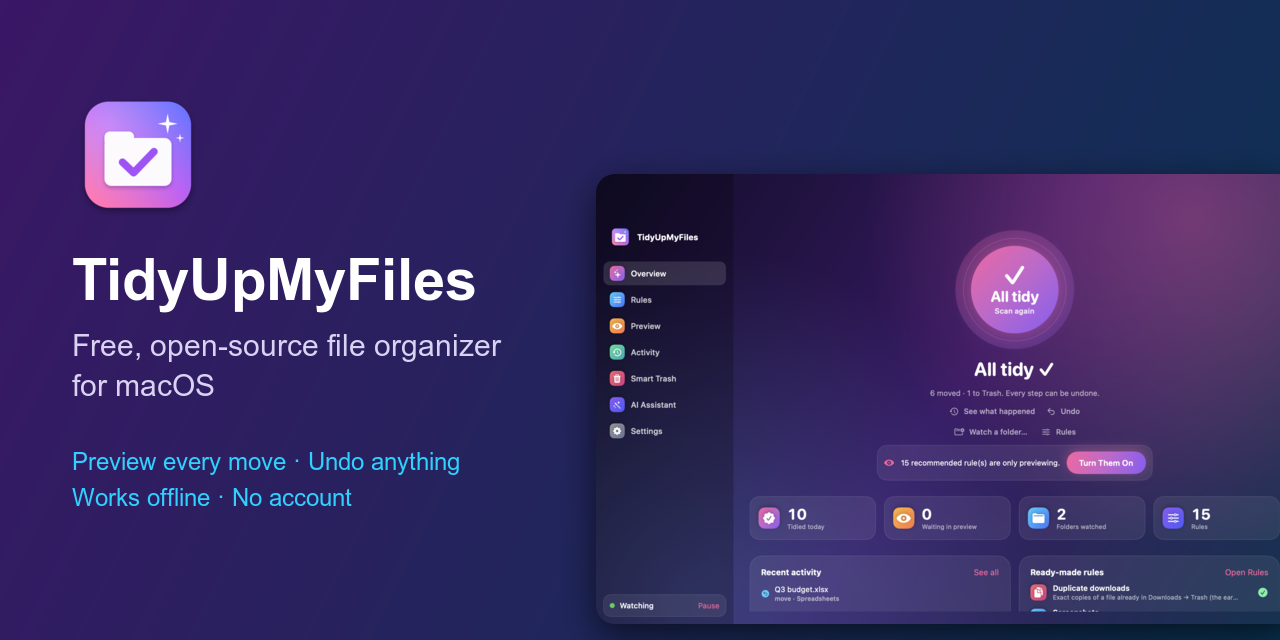
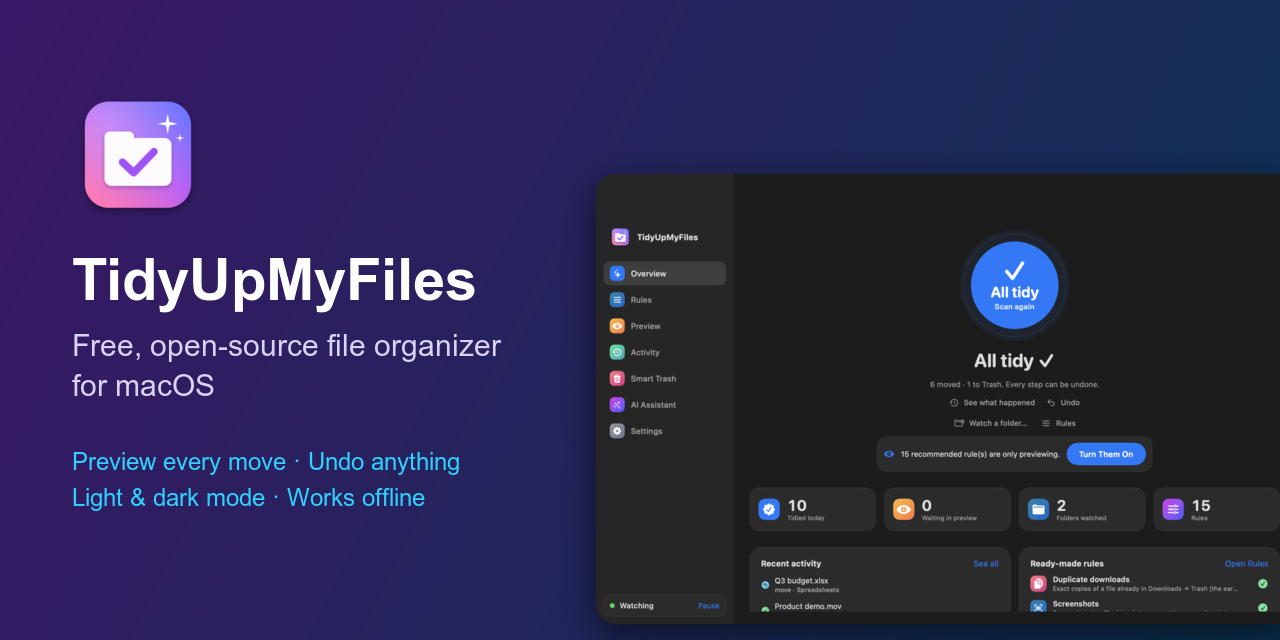
docs: refresh the tour animation, social preview and user guide for the new look

diff --git a/docs/USER-GUIDE.md b/docs/USER-GUIDE.md
@@ -98,18 +98,18 @@ The pictures come from a demo setup with sample files, so they show made-up name
 ![Every step — plus a log file](../.github/assets/07-activity-steps.jpg)
 
 ```
-2026-11-25 08:45:21  DONE     MOVE         ~/Desktop/Screenshot 2026-11-20 at 09.15.02.png → ~/Pictures/Screenshots/2026-11/Screenshot 2026-11-20 at 09.15.02.png  · Screenshots · run 1 (cli)
-2026-11-25 08:45:21  DONE     MOVE         ~/Desktop/Screenshot 2026-11-21 at 14.02.44.png → ~/Pictures/Screenshots/2026-11/Screenshot 2026-11-21 at 14.02.44.png  · Screenshots · run 1 (cli)
-2026-11-25 08:45:21  DONE     MOVE         ~/Desktop/Screenshot 2026-11-23 at 18.40.10.png → ~/Pictures/Screenshots/2026-11/Screenshot 2026-11-23 at 18.40.10.png  · Screenshots · run 1 (cli)
-2026-11-25 08:45:22  DONE     MOVE         ~/Downloads/api-response.json → ~/Documents/Code & Data/api-response.json  · Code & data files · run 2 (cli)
-2026-11-25 08:45:22  DONE     MOVE         ~/Downloads/Contract signed.pdf → ~/Documents/PDF/Contract signed.pdf  · PDF files · run 2 (cli)
-2026-11-25 08:45:22  DONE     MOVE         ~/Downloads/Holiday photo.jpg → ~/Pictures/Downloads/Holiday photo.jpg  · Images · run 2 (cli)
-2026-11-25 08:45:22  DONE     TRASH        ~/Downloads/invoice-0921 (1).pdf → ~/.Trash/invoice-0921 (1).pdf  · Duplicate downloads · run 2 (cli)
-2026-11-25 08:45:22  DONE     MOVE         ~/Downloads/invoice-0921.pdf → ~/Documents/PDF/invoice-0921.pdf  · PDF files · run 2 (cli)
-2026-11-25 08:45:22  DONE     MOVE         ~/Downloads/Meeting notes.docx → ~/Documents/Docs/Meeting notes.docx  · Word & text documents · run 2 (cli)
-2026-11-25 08:45:22  DONE     MOVE         ~/Downloads/Product demo.mov → ~/Movies/Downloads/Product demo.mov  · Videos · run 2 (cli)
-2026-11-25 08:45:22  DONE     MOVE         ~/Downloads/Q3 budget.xlsx → ~/Documents/Spreadsheets/Q3 budget.xlsx  · Spreadsheets · run 2 (cli)
-2026-11-25 08:45:22  UNDONE   MOVE         ~/Downloads/Q3 budget.xlsx → ~/Documents/Spreadsheets/Q3 budget.xlsx  · Spreadsheets · run 2 (undo)
+2026-11-27 16:11:21  DONE     MOVE         ~/Desktop/Screenshot 2026-11-20 at 09.15.02.png → ~/Pictures/Screenshots/2026-11/Screenshot 2026-11-20 at 09.15.02.png  · Screenshots · run 1 (cli)
+2026-11-27 16:11:21  DONE     MOVE         ~/Desktop/Screenshot 2026-11-21 at 14.02.44.png → ~/Pictures/Screenshots/2026-11/Screenshot 2026-11-21 at 14.02.44.png  · Screenshots · run 1 (cli)
+2026-11-27 16:11:21  DONE     MOVE         ~/Desktop/Screenshot 2026-11-23 at 18.40.10.png → ~/Pictures/Screenshots/2026-11/Screenshot 2026-11-23 at 18.40.10.png  · Screenshots · run 1 (cli)
+2026-11-27 16:11:22  DONE     MOVE         ~/Downloads/api-response.json → ~/Documents/Code & Data/api-response.json  · Code & data files · run 2 (cli)
+2026-11-27 16:11:22  DONE     MOVE         ~/Downloads/Contract signed.pdf → ~/Documents/PDF/Contract signed.pdf  · PDF files · run 2 (cli)
+2026-11-27 16:11:22  DONE     MOVE         ~/Downloads/Holiday photo.jpg → ~/Pictures/Downloads/Holiday photo.jpg  · Images · run 2 (cli)
+2026-11-27 16:11:22  DONE     TRASH        ~/Downloads/invoice-0921 (1).pdf → ~/.Trash/invoice-0921 (1).pdf  · Duplicate downloads · run 2 (cli)
+2026-11-27 16:11:22  DONE     MOVE         ~/Downloads/invoice-0921.pdf → ~/Documents/PDF/invoice-0921.pdf  · PDF files · run 2 (cli)
+2026-11-27 16:11:22  DONE     MOVE         ~/Downloads/Meeting notes.docx → ~/Documents/Docs/Meeting notes.docx  · Word & text documents · run 2 (cli)
+2026-11-27 16:11:22  DONE     MOVE         ~/Downloads/Product demo.mov → ~/Movies/Downloads/Product demo.mov  · Videos · run 2 (cli)
+2026-11-27 16:11:22  DONE     MOVE         ~/Downloads/Q3 budget.xlsx → ~/Documents/Spreadsheets/Q3 budget.xlsx  · Spreadsheets · run 2 (cli)
+2026-11-27 16:11:23  UNDONE   MOVE         ~/Downloads/Q3 budget.xlsx → ~/Documents/Spreadsheets/Q3 budget.xlsx  · Spreadsheets · run 2 (undo)
 ```
 
 ## Smart Trash
